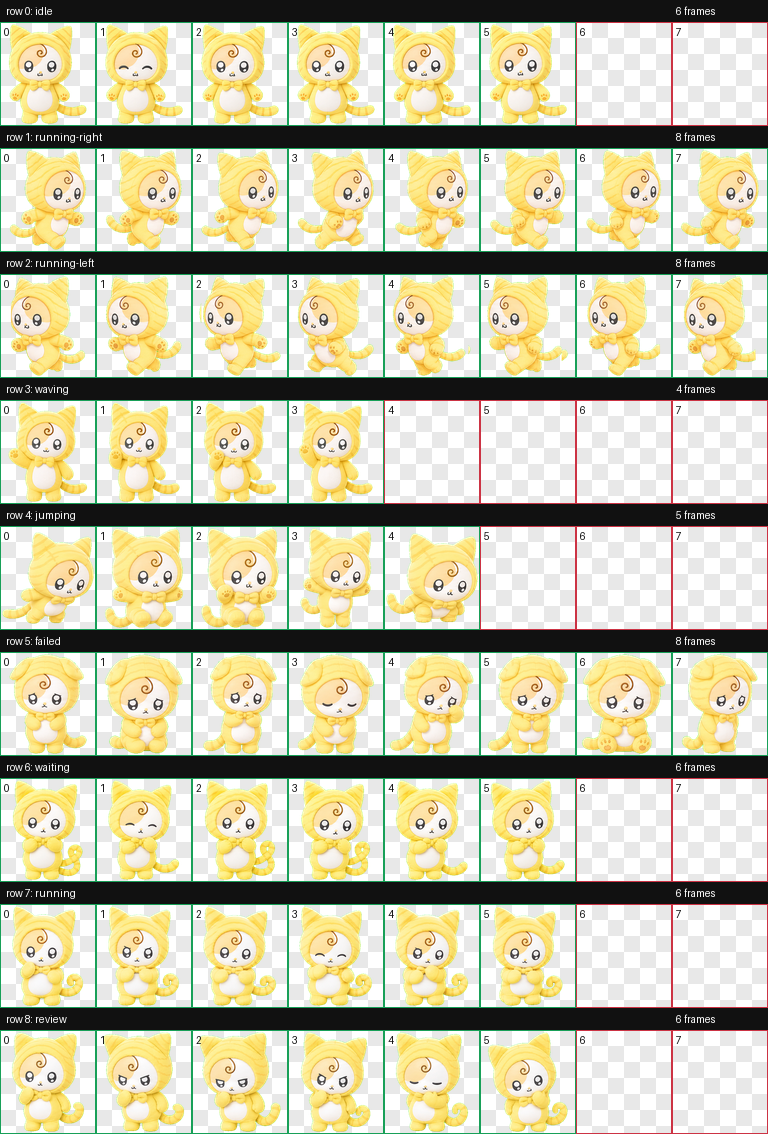
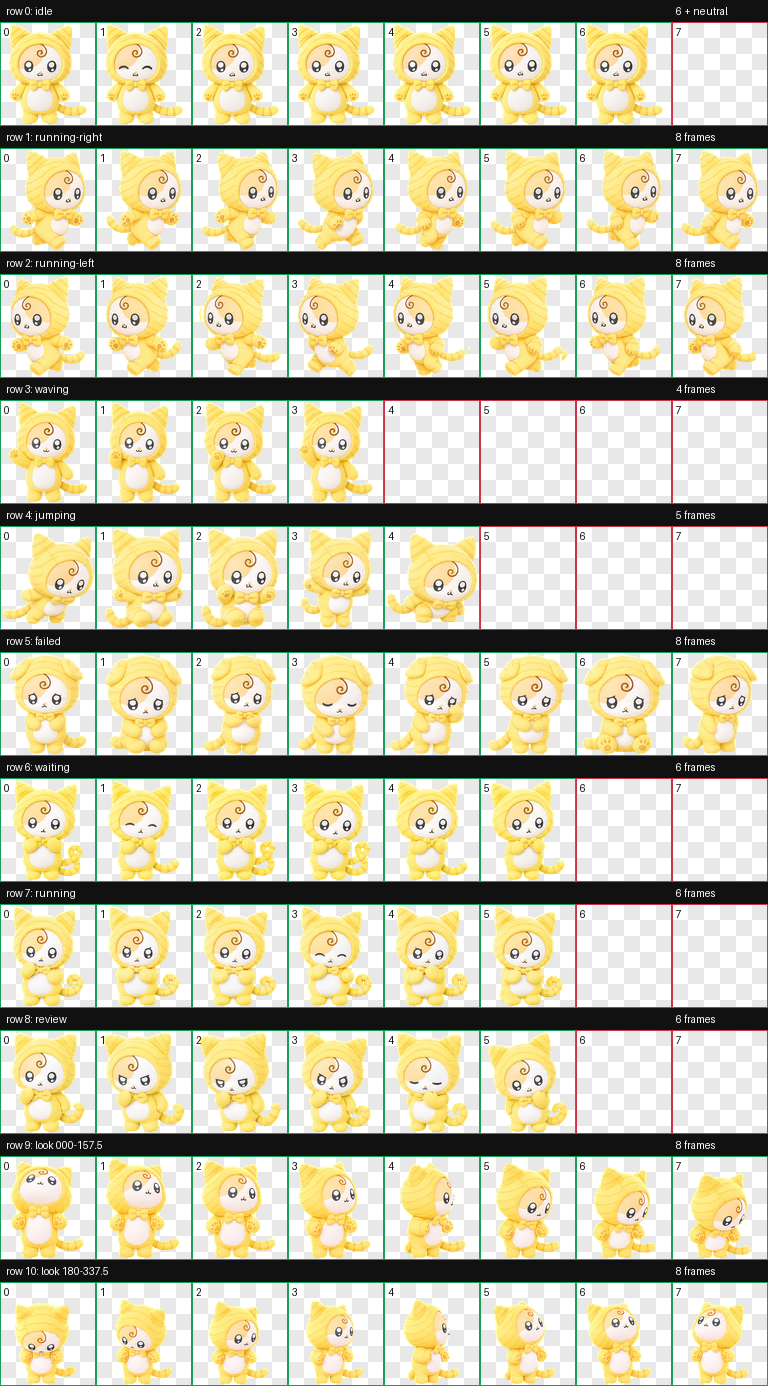
Upgrade IAN pet to v2

diff --git a/README.md b/README.md
@@ -2,15 +2,25 @@
 
 아이유 팬클럽 캐릭터 설정을 바탕으로 만든 Codex용 커스텀 펫입니다.
 
+현재 패키지는 Codex Pet v2 규격을 사용하며, 기존 9개 애니메이션과 16개 시선 방향을 포함합니다.
+
+## 버전 정보
+
+- `spriteVersionNumber`: 2
+- 스프라이트시트: 8열 × 11행, 1536 × 2288
+- 기본 애니메이션: 9종
+- 시선 방향: 16개
+
 ## 포함 파일
 
 - `pet.json`: Codex 펫 메타데이터
 - `spritesheet.webp`: Codex 펫 애니메이션 스프라이트시트
 - `contact-sheet.png`: 전체 애니메이션 프레임 확인용 이미지
+- `look-directions.png`: 16개 시선 방향 확인용 이미지
 
-## 적용 방법(Windows 기준)
+## 적용 방법
 
-1. 이 저장소의 `pet.json`과 `spritesheet.webp`를 아래 폴더에 복사합니다. 이때 `ADMIN`은 자신의 Windows 유저명으로 바꾸면 됩니다.
+1. 이 저장소의 `pet.json`과 `spritesheet.webp`를 아래 폴더에 복사합니다. 이때 `ADMIN`은 자신의 Windows 사용자명으로 바꾸면 됩니다.
 
    ```text
    C:\Users\ADMIN\.codex\pets\ian
